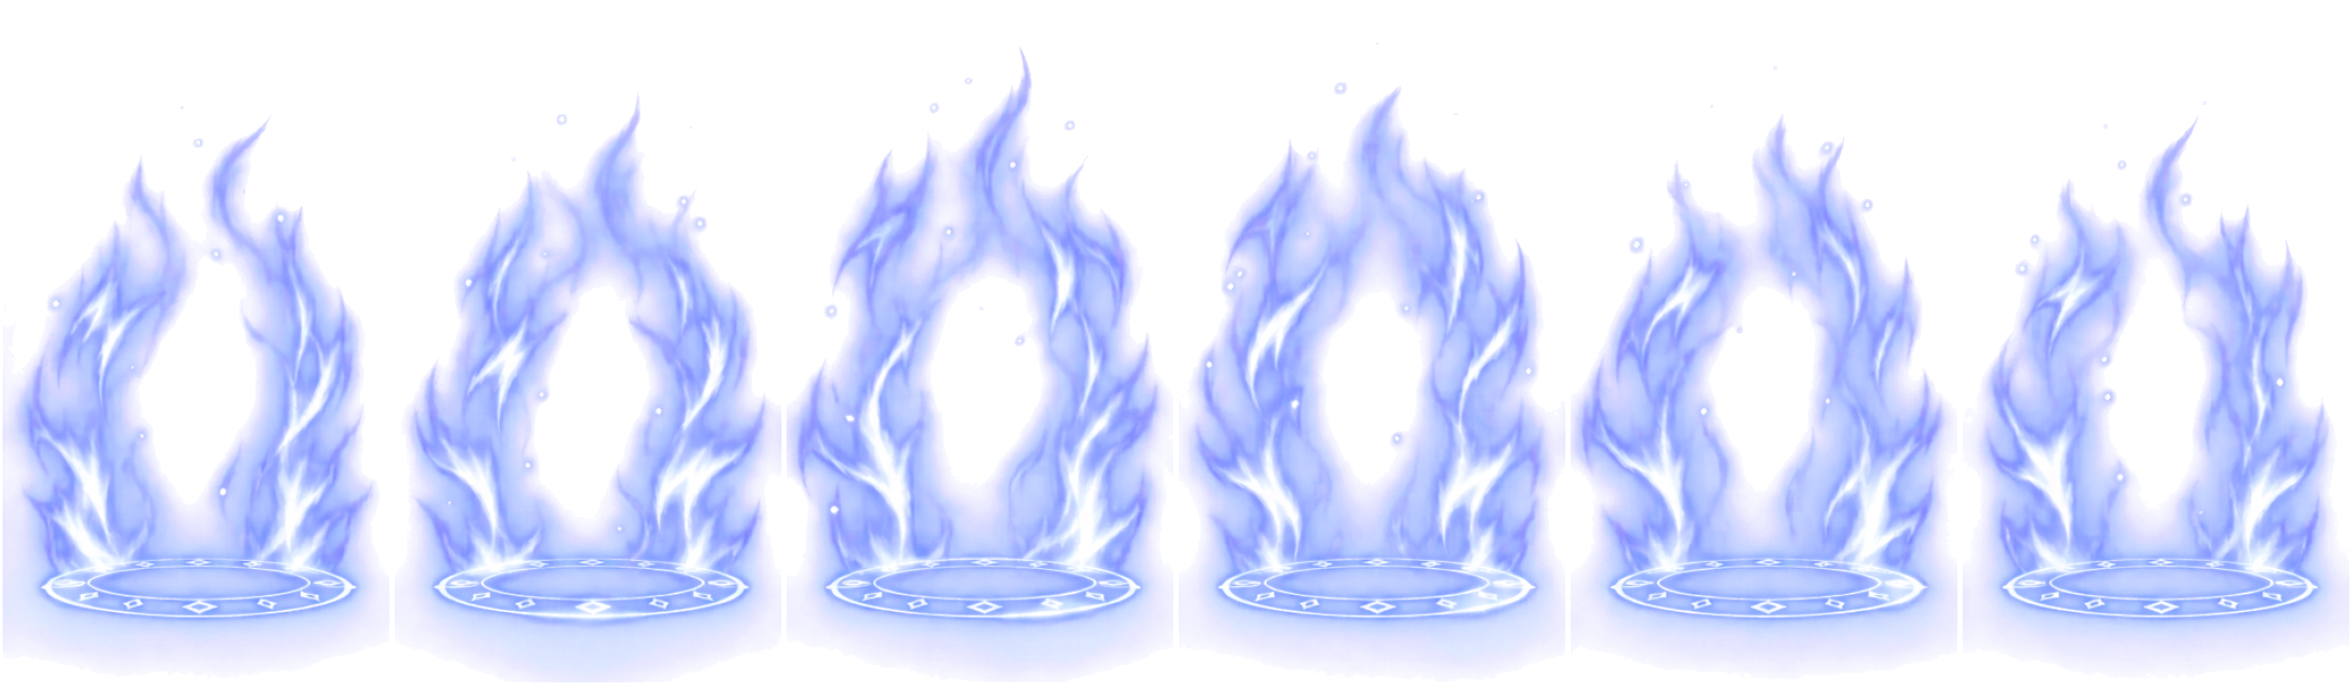
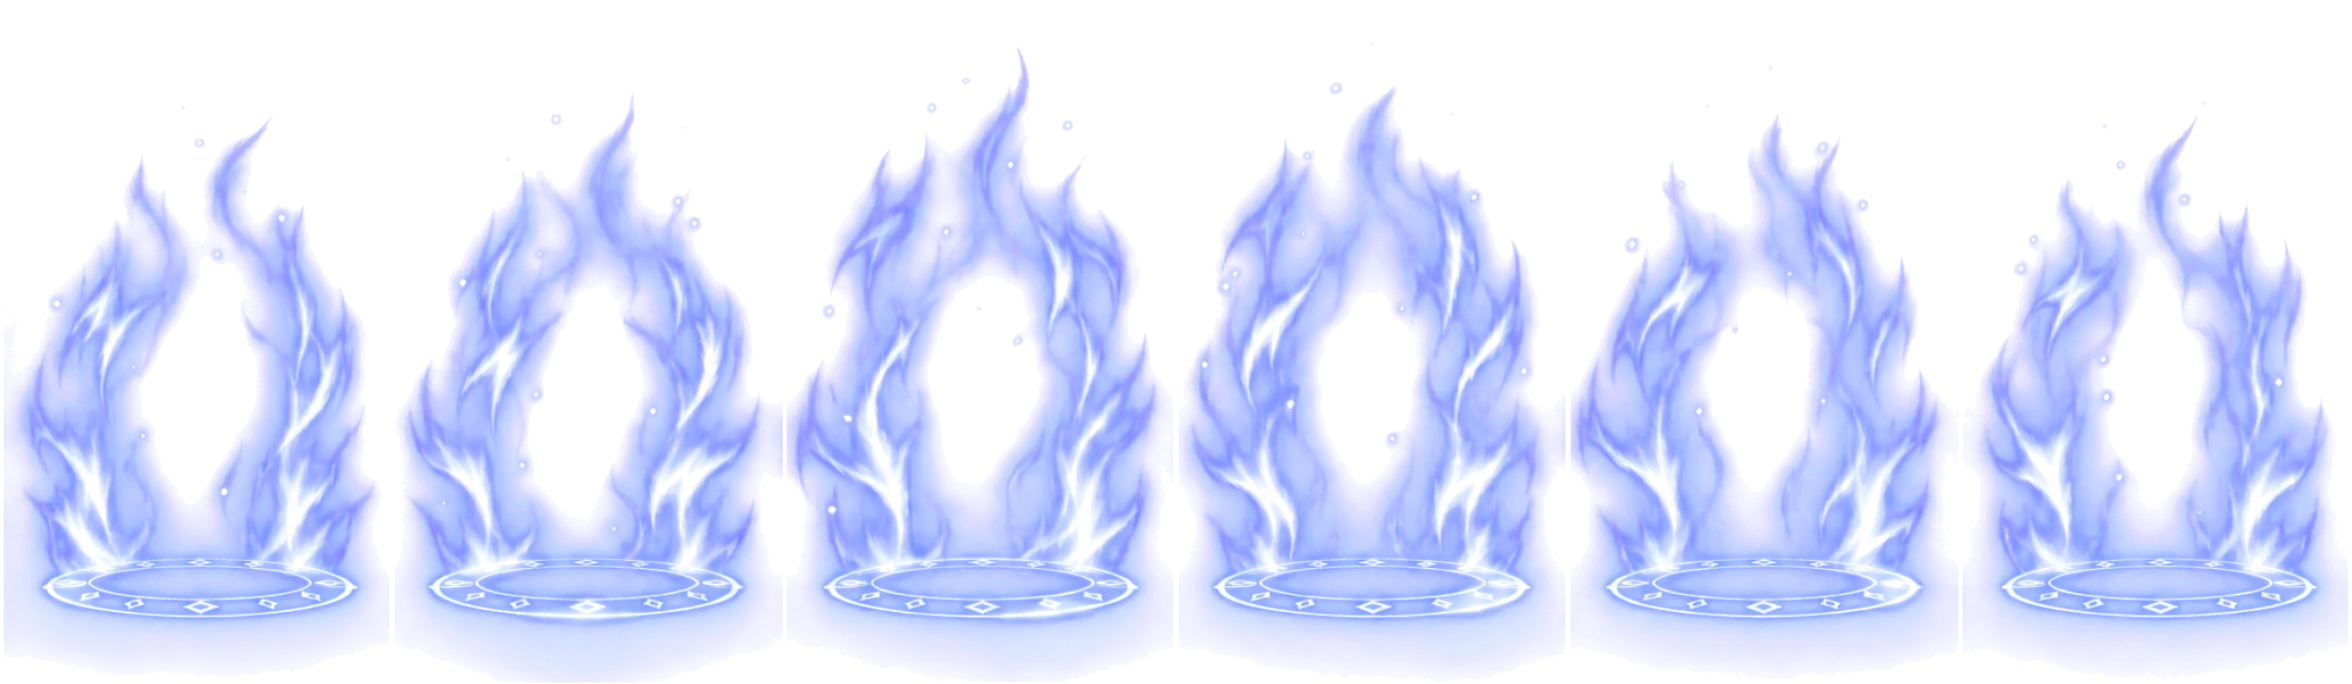
Malik: Resilience Pillar (623 L/M/H) and Spirit Orb M and H
- Pillar: ground slam, pillar of light in front, launches; heavier is slower and hits harder; M is upper-body invincible.
- Spirit Orb M and H: slower start-up and a slower orb each; H slides back first.
- Install flame ring re-laid so the ground ring sits in the same spot every frame.

diff --git a/tests/avner-moves.test.js b/tests/avner-moves.test.js
@@ -219,7 +219,7 @@ test('Malik: loads, stands and walks with his own art, and can be put in a match
     assert.deepEqual([...new Set(c.states[name].frames.map((f) => f.sprite.index))], [0, 1, 2, 3, 4, 5], `${name}: all six drawings`);
     assert.ok(fs.existsSync('data/characters/malik/' + c.sheets[name].image));
   }
-  assert.deepEqual(c.commands.map((x) => x.move).sort(), ['2H', '2L', '2M', '5H', '5L', '5M', 'backHeavy', 'install', 'j.H', 'j.L', 'j.M', 'spiritOrb']);
+  assert.deepEqual(c.commands.map((x) => x.move).sort(), ['2H', '2L', '2M', '5H', '5L', '5M', 'backHeavy', 'install', 'j.H', 'j.L', 'j.M', 'pillarH', 'pillarL', 'pillarM', 'spiritOrb', 'spiritOrbH', 'spiritOrbM']);
   // Twenty frames holding forward against Avner: he walks, nothing breaks.
   const world = loadWorld('data/characters/malik/malik.toska.json', AVNER);
   const game = createGame(world);
@@ -393,4 +393,63 @@ test('Malik: Spirit Install (down, down, S+H) costs a bar, runs 10 seconds, and 
   for (const l of v.aura) assert.ok(fs.existsSync('data/characters/malik/' + world.chars[0].effects[l.effect].sprite.image), l.effect);
   assert.deepEqual(v.art, { idle: 'installIdle' });
   assert.equal(world.chars[0].states.installIdle.frames.length, world.chars[0].states.idle.frames.length);
+});
+
+test('Malik: Resilience Pillar (623 + L / M / H): heavier is slower and hits harder; only Medium is upper-body invincible', () => {
+  const world = loadWorld('data/characters/malik/malik.toska.json', AVNER);
+  const c = world.chars[0];
+  const first = (id) => c.states[id].frames.findIndex((fr) => fr.hit.length);
+  assert.ok(first('pillarL') < first('pillarM') && first('pillarM') < first('pillarH'), 'L is fastest, H slowest');
+  const dmg = ['pillarL', 'pillarM', 'pillarH'].map((id) => c.states[id].move.damage);
+  assert.ok(dmg[0] < dmg[1] && dmg[1] < dmg[2], 'L hits lightest, H hardest');
+  // The pillar stands in front of him, from the floor up, and its effect plays from the slam.
+  for (const id of ['pillarL', 'pillarM', 'pillarH']) {
+    const st = c.states[id];
+    const box = st.frames[first(id)].hit[0];
+    assert.ok(box[0] > 0 && box[1] === 0 && box[3] > 20000, id + ': a tall box in front, on the floor');
+  }
+  assert.ok(fs.existsSync('data/characters/malik/' + c.effects.pillar.sprite.image));
+  // Upper body: Medium only has his lower half hittable until the pillar is gone; L and H keep the whole body.
+  const top = (id, f) => Math.max(...c.states[id].frames[f].hurt.map((b) => b[1] + b[3]));
+  assert.ok(top('pillarM', 0) < top('pillarL', 0) / 2 + 100);
+  assert.equal(top('pillarM', first('pillarM')), top('pillarM', 0));
+  assert.equal(top('pillarM', c.states.pillarM.frames.length - 1), top('pillarL', 0), 'full body again in recovery');
+  assert.equal(top('pillarH', 0), top('pillarL', 0));
+  // In a match: the shoryuken motion + M launches an opponent standing in front.
+  const game = createGame(world);
+  game.players[0].x = -px(48); game.players[1].x = px(48);
+  const hp = game.players[1].health; let air = false;
+  for (const raw of script('6 2 3+M 5*60')) { step(game, [raw, 0], world); air ||= game.players[1].y > 0; }
+  assert.equal(hp - game.players[1].health, 1000);
+  assert.ok(air, 'launched');
+});
+
+test('Malik: Spirit Orb M and H start slower and throw a slower orb; H slides back first', () => {
+  const world = loadWorld('data/characters/malik/malik.toska.json', AVNER);
+  const c = world.chars[0];
+  const run = (text) => {
+    const game = createGame(world);
+    game.players[0].x = -px(200); game.players[1].x = px(200);
+    const x0 = game.players[0].x; let spawn = -1, back = 0, speed = 0, last = null;
+    for (const raw of script(text)) {
+      step(game, [raw, 0], world);
+      if (spawn < 0 && game.projectiles.length) spawn = game.players[0].frame;
+      // Speed = how far the orb moved this step (once it is out and flying).
+      const orb = game.projectiles[0];
+      if (orb && last !== null) speed = Math.max(speed, Math.abs(orb.x - last));
+      last = orb ? orb.x : null;
+      back = Math.max(back, x0 - game.players[0].x);
+    }
+    return { spawn, back, speed };
+  };
+  const L = run('2 3 6+L 5*50'), M = run('2 3 6+M 5*50'), H = run('2 3 6+H 5*50');
+  assert.ok(L.spawn < M.spawn && M.spawn < H.spawn, 'L throws first, H last');
+  assert.ok(L.speed > M.speed && M.speed > H.speed && H.speed > 0, 'L orb fastest, H slowest');
+  assert.equal(L.back, 0); assert.equal(M.back, 0);
+  assert.ok(H.back >= px(20) && H.back <= px(45), 'H slides back a little');
+  // Every version still swipes on drawing 4, then throws on drawing 5.
+  for (const id of ['spiritOrb', 'spiritOrbM', 'spiritOrbH']) {
+    const hits = c.states[id].frames.filter((fr) => fr.hit.length);
+    assert.deepEqual([...new Set(hits.map((fr) => fr.sprite.index + 1))], [4], id);
+  }
 });

diff --git a/CLAUDE.md b/CLAUDE.md
@@ -77,7 +77,7 @@ Current through **Phase 9** (all phases of the brief done), plus **Avner: Brand 
   size up, block row; additive). `collect` in fight-renderer.js pushes them from hit/counter/block cues; a move's
   own `hitFx` wins; the code-drawn sparks remain for clash, armor, throws, bounces and burst.
 - **Malik** (`data/characters/malik/`): second cast character, idle, walks, dashes (ground and air, both ways; air forward dash drawings 2 and 3 are tilted 8 degrees forward with `--tilt`), crouch, jump / fall / land, 5L, 5M (two hits), 5H, 2L, 2M, 2H, Back Heavy (4H),
-  j.L, j.M, j.H (move `layers`: the `spiritHand` effect, synced so its drawing 4 shows on the hit frame; air attacks have their own `hitFx`), and Spirit Orb (236L: a melee hit, then `spawn`s projectile `spiritOrb`). All art cut to one body size (186 px tall standing; two-row sheets are laid into one strip first; air attack sheets realigned on the torso). Numbers are a first pass copied from Avner; default stats; blocks, hit reactions (standing shows drawing 1 for every hit until per-strength reactions exist in the engine; crouching is one drawing; air uses drawn frames 1, 2 then 4, 5 as the tumble), knockdown and get-up are in; no art for throws, techs or burst. Super: Spirit Install (`22HS`, one bar): mechanic var `install` (600 frames) with drawing-only `aura` (guardian + lights behind, flames + lights in front) and `art` (idle swapped for the white-haired `installIdle`); no gameplay effect yet.
+  j.L, j.M, j.H (move `layers`: the `spiritHand` effect, synced so its drawing 4 shows on the hit frame; air attacks have their own `hitFx`), Spirit Orb (236 L / M / H: a melee hit, then `spawn`s projectile `spiritOrb` / `spiritOrbM` / `spiritOrbH`, each slower than the last; H slides back first) and Resilience Pillar (623 L / M / H: ground slam, `fx` `pillar` in front, launches; M has only a lower-body hurtbox until the pillar is gone). All art cut to one body size (186 px tall standing; two-row sheets are laid into one strip first; air attack sheets realigned on the torso). Numbers are a first pass copied from Avner; default stats; blocks, hit reactions (standing shows drawing 1 for every hit until per-strength reactions exist in the engine; crouching is one drawing; air uses drawn frames 1, 2 then 4, 5 as the tumble), knockdown and get-up are in; no art for throws, techs or burst. Super: Spirit Install (`22HS`, one bar): mechanic var `install` (600 frames) with drawing-only `aura` (guardian + lights behind, flames + lights in front) and `art` (idle swapped for the white-haired `installIdle`); no gameplay effect yet.
 - **Box editor** (title menu, dev server only; `?mode=editor&move=5H&frame=8`): `src/ui/screens/box-editor.js`
   (screen, mouse), `src/editor/box-model.js` (pure: which place in the Toska file a frame's hurt / hit boxes come
   from, mirroring `compileState`; edits; `diffOps`), `scripts/json-edit.mjs` (changes values inside the file's
